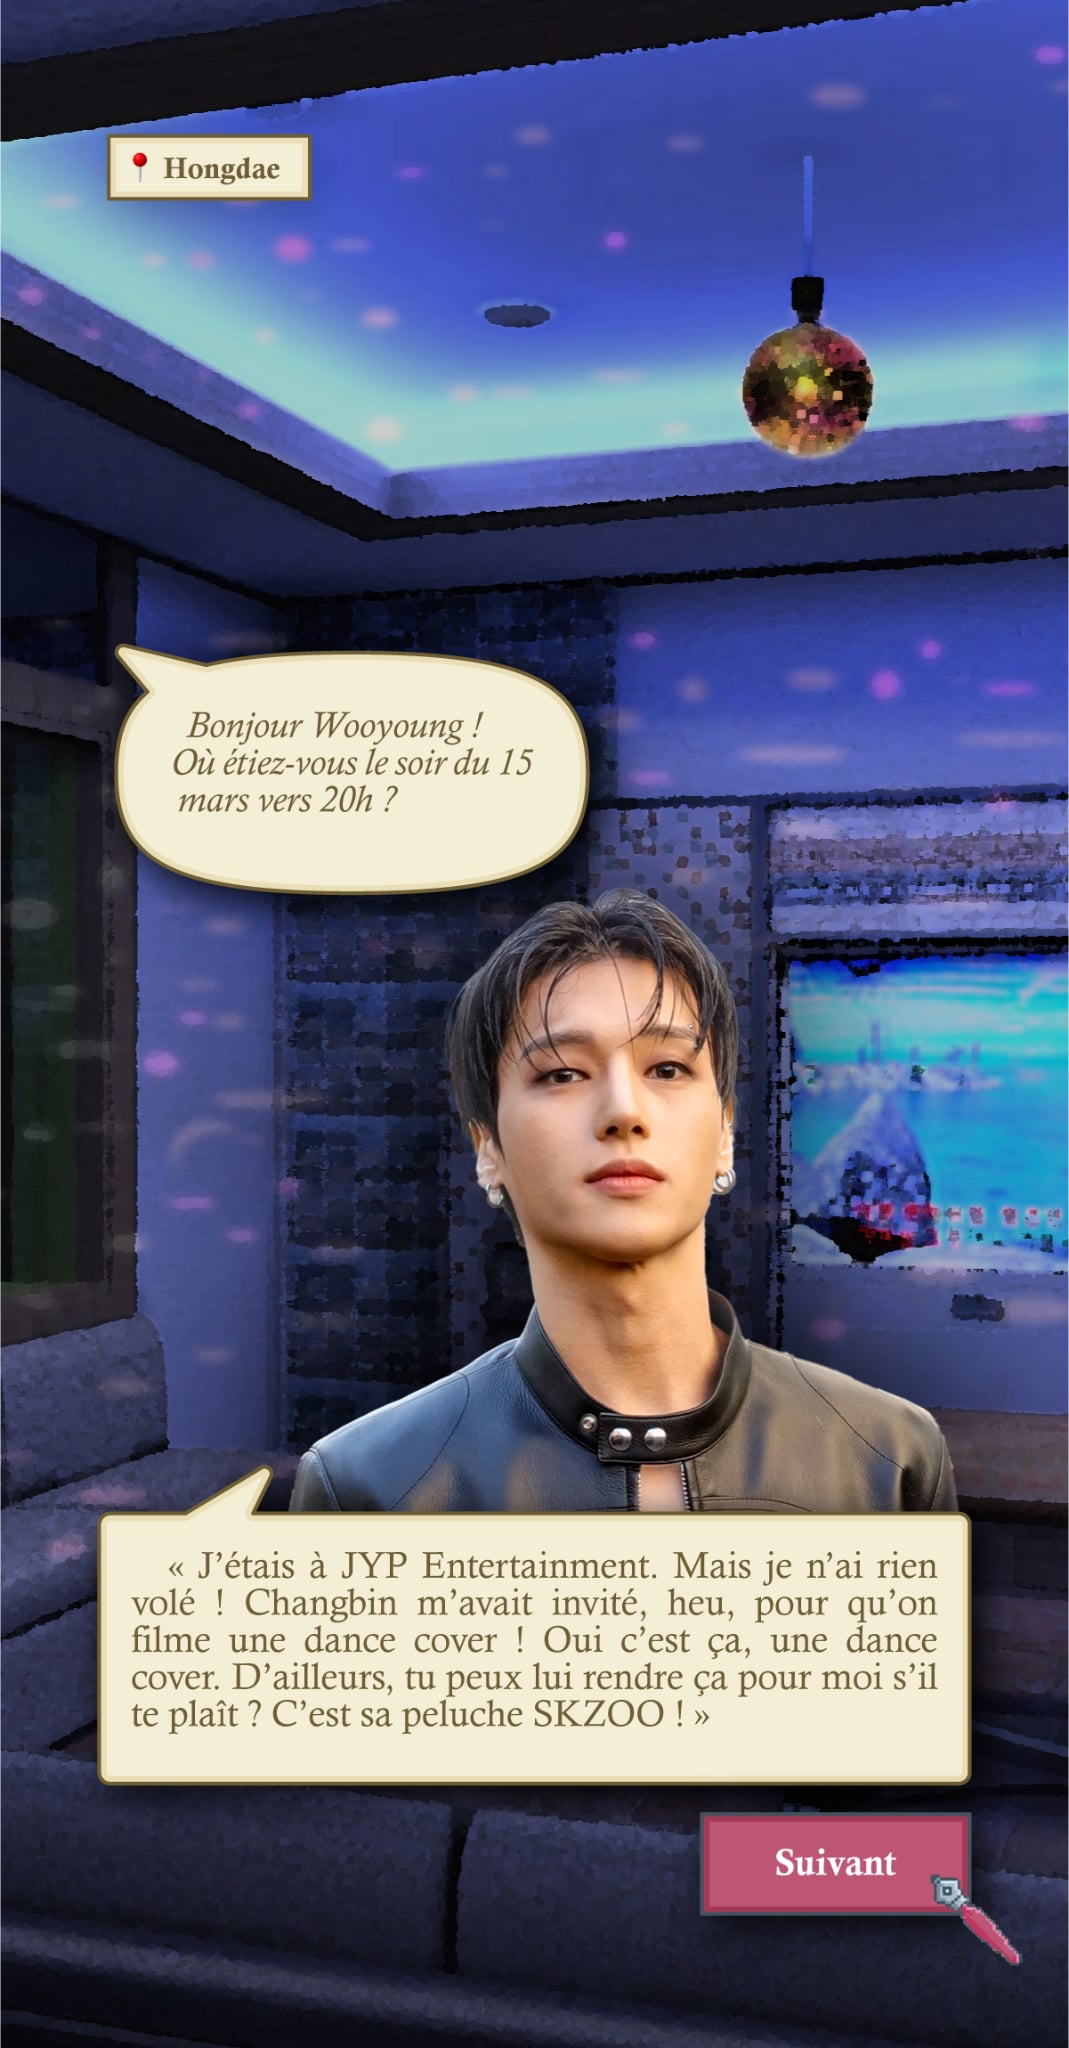
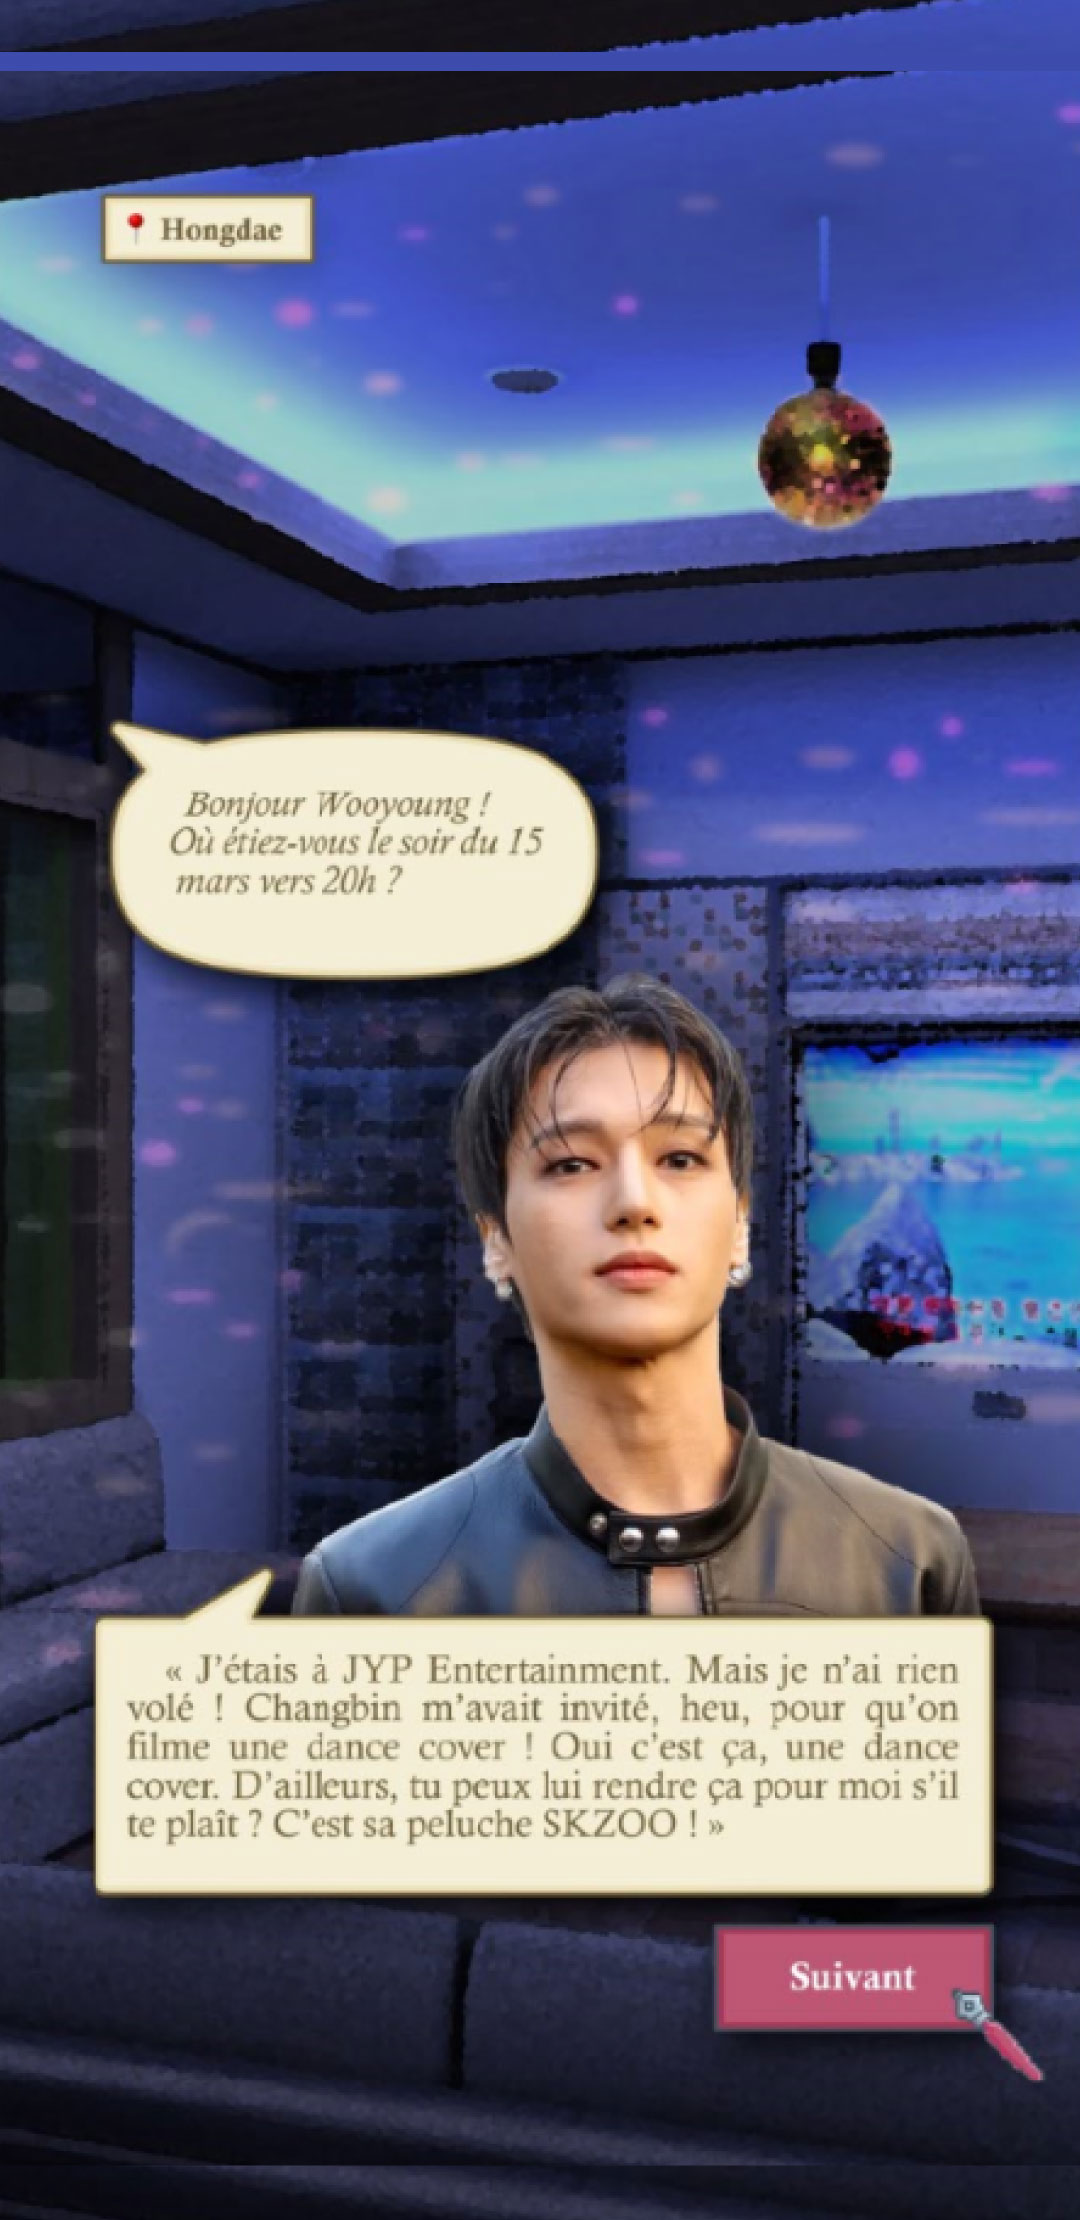
test image wooyoung en dur 2

diff --git a/hongdae.html b/hongdae.html
@@ -16,8 +16,8 @@
 		border: none !important;
 		font-size:0;
 		position: absolute;
-		right: 25px;
-		bottom: 125px;
+		right: 60px;
+		bottom: 150px;
 		width: 250px;
 		height: 100px;
 		}
@@ -31,6 +31,10 @@
 		position: relative;
 		}
 		
+		img {
+		width:100%;
+		height:100%;
+		}
 	</style>
 	
 	
